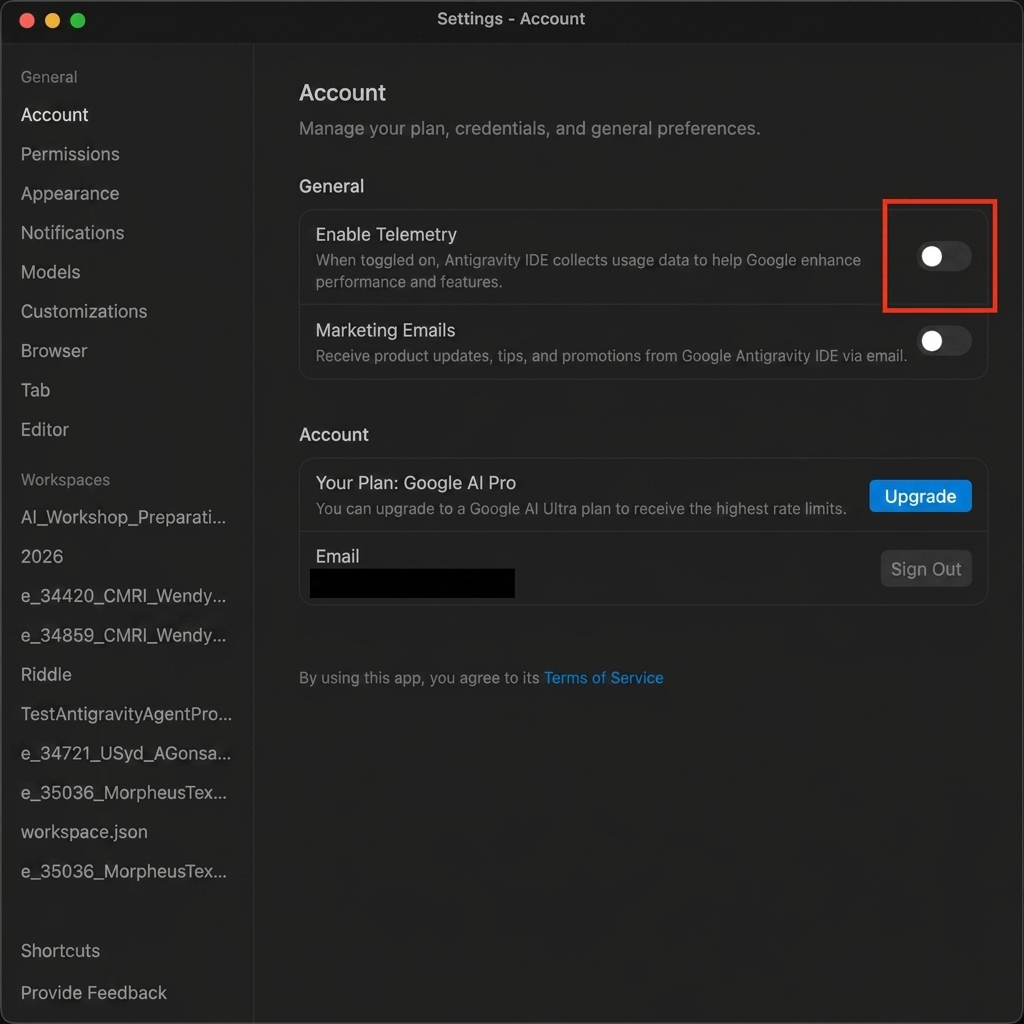
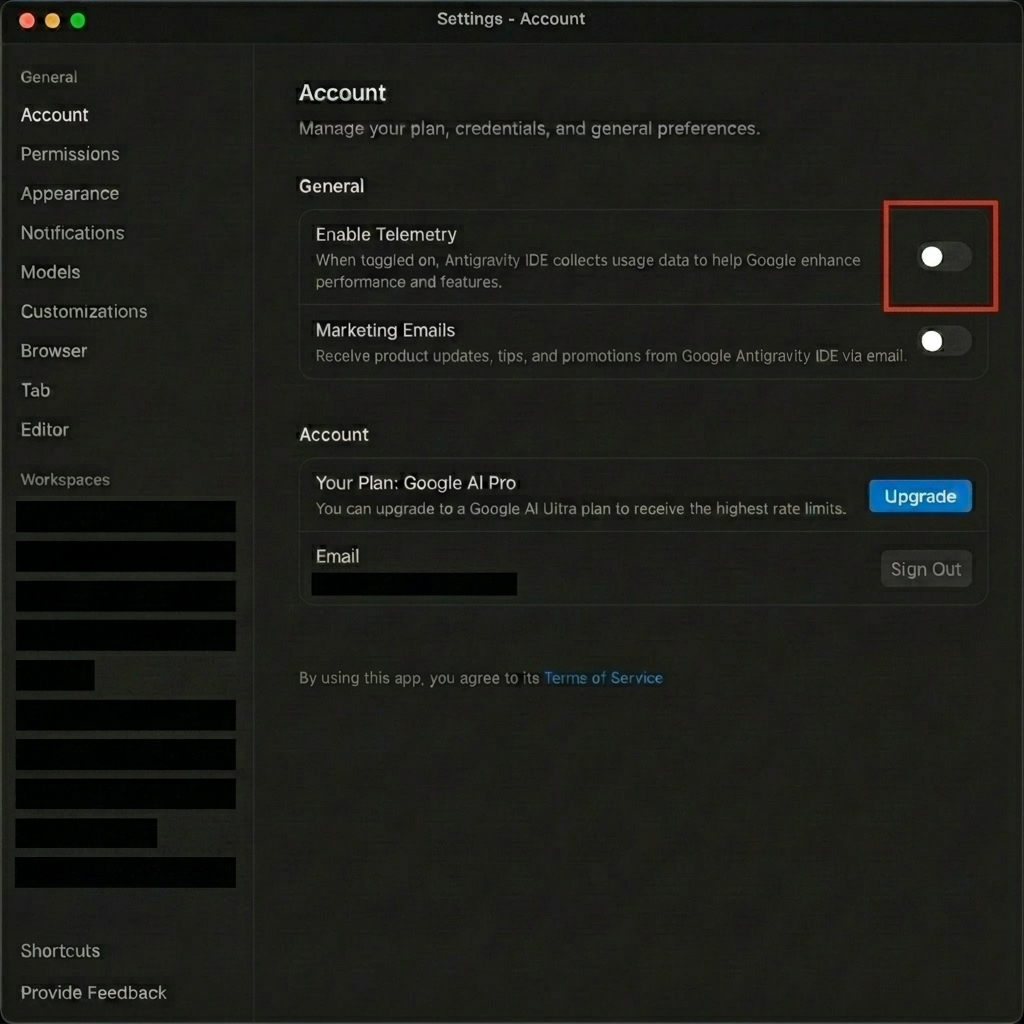
docs: redact workspaces and turn off telemetry toggle in step6 image

diff --git a/README.md b/README.md
@@ -10,8 +10,8 @@ Please complete the following checklist steps in order:
 - [ ] 1. Create a Google Account (see Section 1)
 - [ ] 2. Install Google Chrome Browser (see Section 2)
 - [ ] 3. Install Antigravity IDE (see Section 3)
-- [ ] 4. Disable Telemetry in Antigravity IDE (see Section 4)
-- [ ] 5. Install & Configure IDE Plugins (see Section 5)
+- [ ] 4. Install & Configure IDE Plugins (see Section 5)
+- [ ] 5. Disable Telemetry in Antigravity IDE (see Section 4)
 
 ---
 
@@ -45,26 +45,12 @@ Antigravity IDE integration and web previews work best with Google Chrome.
 
 ---
 
-## 4. How to Disable Telemetry in Antigravity IDE
-
-To protect privacy and minimize network usage during the workshop, please disable telemetry:
-
-1. In the bottom-right corner of the Antigravity IDE window, click on the **Antigravity - Settings** status bar item (as shown in Step 1 of Section 5).
-2. Click on the **Advanced Settings** link located at the bottom of the settings popup.
-3. In the Left Sidebar of the Advanced Settings window, select **Account**.
-4. In the **General** section, toggle the **Enable Telemetry** switch to **OFF** (gray/disabled).
-5. Optionally, you can also toggle the **Marketing Emails** switch to **OFF**.
-
-![Disable Telemetry](images/step6_disable_telemetry.png)
-
----
-
-## 5. How to Install & Configure Plugins
+## 4. How to Install & Configure Plugins
 
 Follow these step-by-step visual instructions to enable and manage plugins in the Antigravity IDE:
 
 ### Step 1: Open Settings
-In the bottom-left corner of the Antigravity IDE window, click on the **Antigravity - Settings** status bar item.
+In the bottom-right corner of the Antigravity IDE window, click on the **Antigravity - Settings** status bar item.
 
 ![Open Settings](images/step1_settings_button.png)
 
@@ -96,14 +82,28 @@ In the **Build With Google Plugins** overlay, you can enable or manage the stand
 
 ---
 
+## 4. How to Disable Telemetry in Antigravity IDE
+
+To protect privacy and minimize network usage during the workshop, please disable telemetry:
+
+1. In the bottom-right corner of the Antigravity IDE window, click on the **Antigravity - Settings** status bar item (as shown in Step 1 of Section 5).
+2. Click on the **Advanced Settings** link located at the bottom of the settings popup.
+3. In the Left Sidebar of the Advanced Settings window, select **Account**.
+4. In the **General** section, toggle the **Enable Telemetry** switch to **OFF** (gray/disabled).
+5. Optionally, you can also toggle the **Marketing Emails** switch to **OFF**.
+
+![Disable Telemetry](images/step6_disable_telemetry.png)
+
+---
+
 ## ✅ Final Verification Checklist (End)
 
 Verify that all setup items are successfully complete before starting the workshop:
 - [ ] 1. Google Account is created and signed in.
 - [ ] 2. Google Chrome is installed and set as default.
 - [ ] 3. Antigravity IDE is running and showing code workspace views.
-- [ ] 4. Telemetry (and marketing emails) has been disabled in Advanced Settings.
-- [ ] 5. Selected Google Plugins (e.g., Modern Web Guidance, Chrome DevTools) are enabled.
+- [ ] 4. Selected Google Plugins (e.g., Modern Web Guidance, Chrome DevTools) are enabled.
+- [ ] 5. Telemetry (and marketing emails) has been disabled in Advanced Settings.
 
 ---
 
